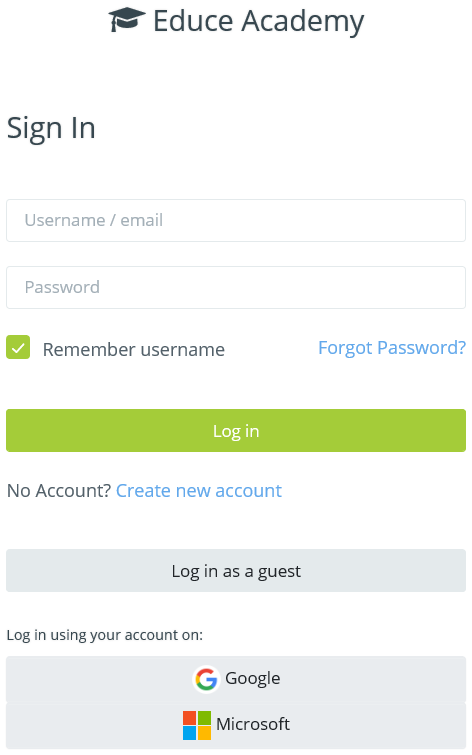
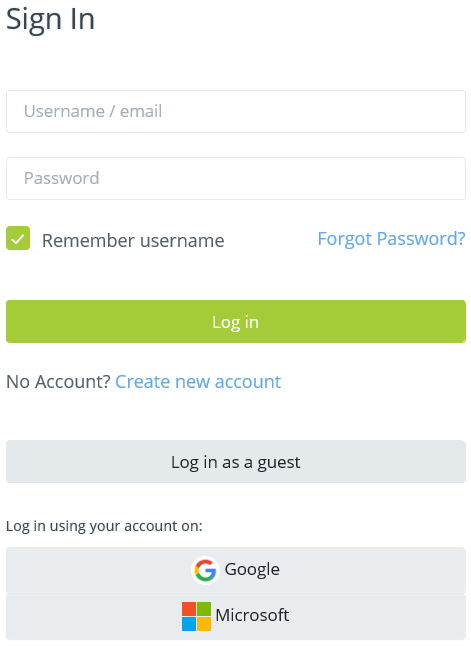
change theme

diff --git a/docs/conf.py b/docs/conf.py
@@ -74,13 +74,14 @@ pygments_style = None
 # The theme to use for HTML and HTML Help pages.  See the documentation for
 # a list of builtin themes.
 #
-html_theme = 'alabaster'
+html_theme = 'sphinx_rtd_theme'
 
 # Theme options are theme-specific and customize the look and feel of a theme
 # further.  For a list of options available for each theme, see the
 # documentation.
 #
 # html_theme_options = {}
+html_theme_options = {'body_min_width': '300px'}
 
 # Add any paths that contain custom static files (such as style sheets) here,
 # relative to this directory. They are copied after the builtin static files,

diff --git a/docs/index.rst b/docs/index.rst
@@ -3,22 +3,24 @@
    You can adapt this file completely to your liking, but it should at least
    contain the root `toctree` directive.
 
-Chào mừng tới Educe Academy!
-============================
+.. _index:
 
-.. toctree::
-   :maxdepth: 2
-   :caption: Nội dung:
-
-   quickstart
+Hướng dẫn sử dụng Educe Academy
+========================================
 
 .. marketing content goes here
 
 Educe Academy cung cấp các khóa đào tạo chuyên sâu dành cho nhân sự trường học, từ giáo viên và nhân viên hỗ trợ cho đến hiệu trưởng và cán bộ quản lý trường học. Chúng tôi cung cấp các trải nghiệm học tập đổi đời, cả trực tuyến và tại chỗ thông qua thực tập nghề, đáp ứng đòi hỏi của cuộc Cách mạng Công nghiệp 4.0, qua đó thiết lập các tiêu chuẩn mới cho ngành giáo dục.
 
+.. toctree::
+   :maxdepth: 2
+   :caption: Mục lục
+   :name: maintoc
+
+   quickstart
+   attending
+
 Liên kết nhanh
 ==============
 
-* :doc:`quickstart`
-* :ref:`genindex`
-* :ref:`search`
+* :ref:`quickstart`

diff --git a/docs/quickstart.rst b/docs/quickstart.rst
@@ -1,10 +1,24 @@
-Hướng dẫn sử dụng
-=================
+.. _quickstart:
+
+Hướng dẫn bắt đầu nhanh
+=======================
 
 Để bắt đầu sử dụng Educe Academy, bạn chỉ cần thực hiện những bước đơn giản sau.
 
 1. Truy cập trang web của `Educe Academy <https://educe.academy/portal/>`_;
-2. Đăng nhập tài khoản Educe Academy. Bạn có thể sử dụng tài khoản sẵn có, hoặc đăng nhập bằng Google và Facebook.
+2. Đăng nhập tài khoản Educe Academy. Bạn có thể sử dụng tài khoản sẵn có, hoặc đăng nhập bằng Google và Facebook;
 
 .. image:: quickstart/login2.png
    :scale: 50%
+
+3. Trang *Bảng điều khiển* thể hiện danh sách các khoá học bạn đang tham gia.
+
+.. image:: quickstart/frontpage.png
+   :scale: 40%
+
+4. Bạn cũng có thể truy cập danh sách các khoá học hiện tại trong trang *Các khoá học của tôi*.
+
+.. image:: quickstart/mycourses.png
+   :scale: 40%
+
+5. Tận hưởng các khoá học phong phú của Educe Academy.

diff --git a/docs/attending.rst b/docs/attending.rst
@@ -1,0 +1,5 @@
+:: _attending:
+
+Tham gia các khoá học
+=====================
+
